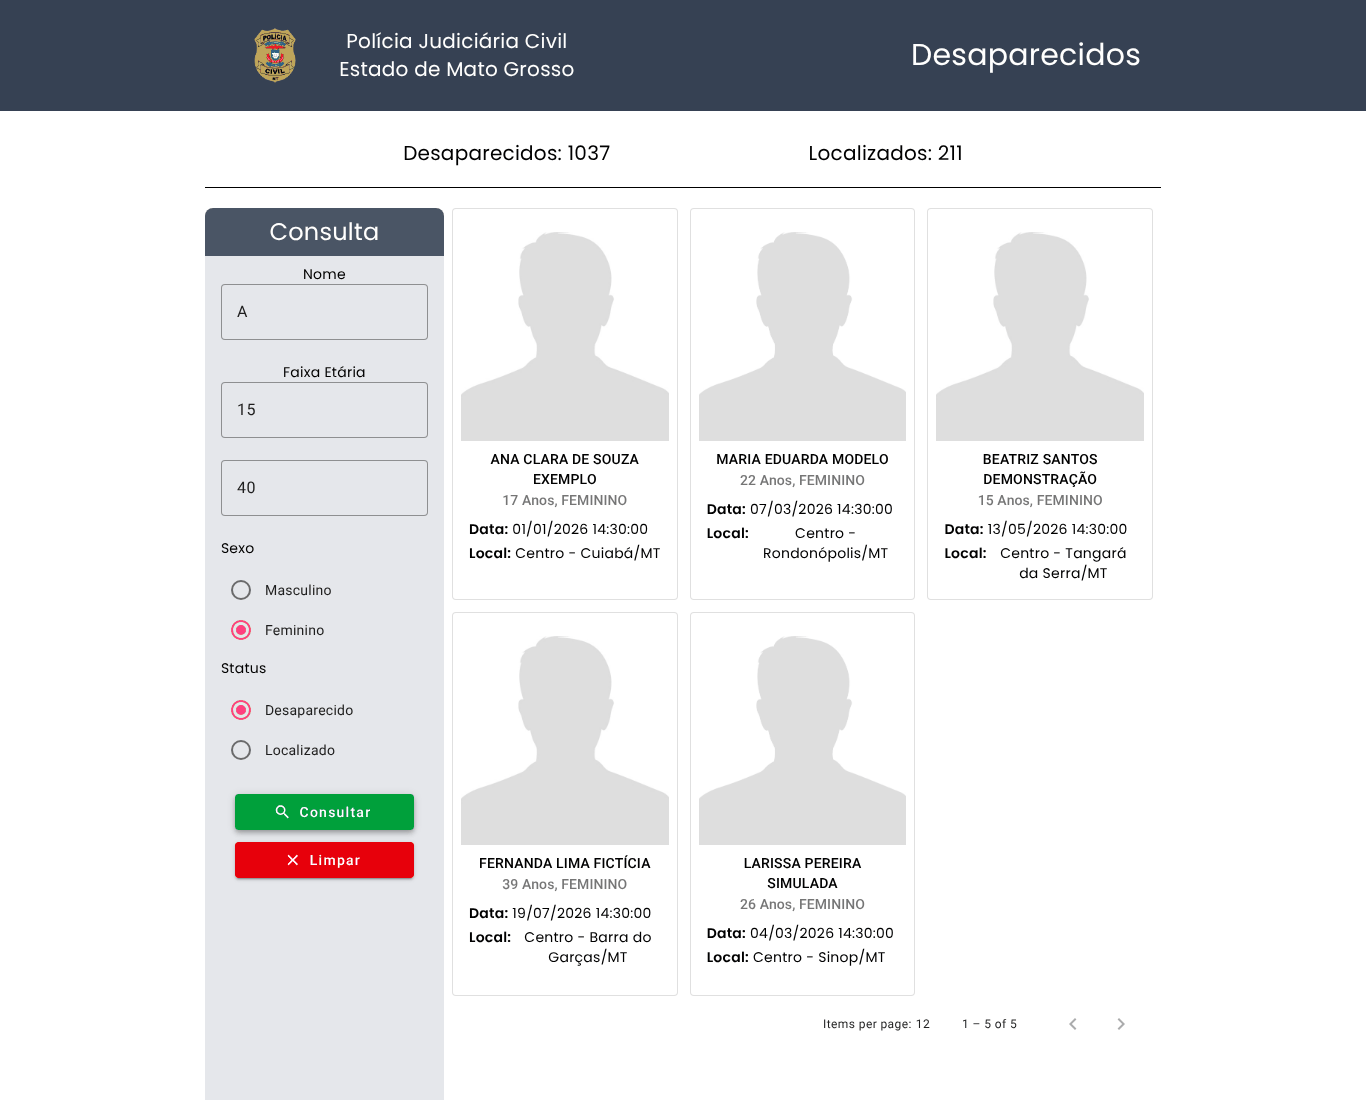
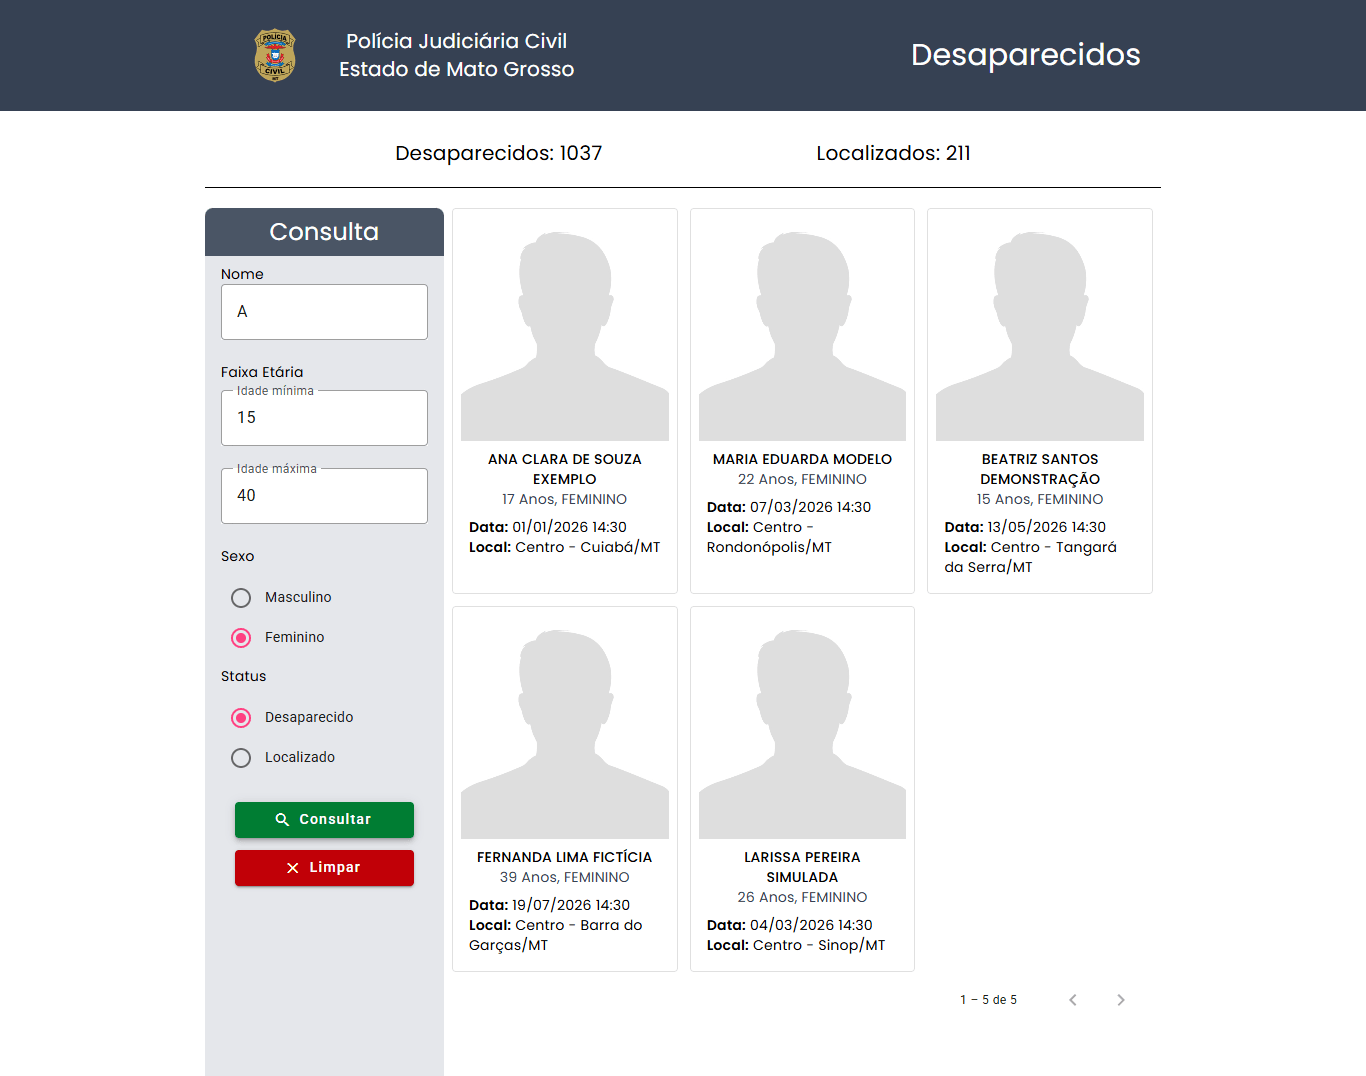
docs(capturas): refaz as capturas sobre a UI revisada e atualiza o README
As capturas agora mostram o layout corrigido no celular, o paginador em
português, o botão "Voltar para a lista" e o formulário revisado. O
README ganha a acessibilidade e o nginx entre as funcionalidades e
decisões, corrige o número de colunas no celular e explica como usar um
navegador instalado e reduzir as imagens.

diff --git a/README.md b/README.md
@@ -31,7 +31,8 @@ Projeto desenvolvido como teste prático do **Processo Seletivo SEPLAG/MT** — 
 - Filtros por nome, faixa etária, sexo e status (desaparecido/localizado).
 - Tela de detalhe com situação do caso, local e data do desaparecimento e há quantos dias a pessoa está desaparecida.
 - Se a API falhar, a lista e a tela de detalhe mostram uma mensagem amigável com o botão "Tentar de novo".
-- Formulário em diálogo para enviar informações sobre a pessoa, com máscara de data e upload de imagens.
+- Formulário em diálogo para enviar informações sobre a pessoa, com máscara de data e upload de imagens. A data é validada de verdade (recusa 31/02 e datas futuras) e as imagens precisam ser PNG/JPG de até 3 MB.
+- Acessível (WCAG 2.1 AA): tudo funciona pelo teclado, link "Pular para o conteúdo", foco levado ao conteúdo quando a rota muda, título da aba por página, resultado da busca anunciado para leitores de tela e contraste de 4,5:1. O axe-core não aponta violações e o Lighthouse dá 100 em acessibilidade.
 - Renderização no servidor (Angular SSR) com pré-renderização das rotas; os dados da API são sempre buscados no navegador, então o HTML gerado no build não guarda um retrato desatualizado da lista.
 
 ## Requisitos do teste e onde estão atendidos
@@ -45,7 +46,7 @@ Projeto desenvolvido como teste prático do **Processo Seletivo SEPLAG/MT** — 
 | Detalhe com destaque da situação                   | Faixa e borda vermelhas (desaparecido) ou verdes (localizado), dados da ocorrência e dias desde o desaparecimento                                  |
 | Envio de informações sobre a pessoa                | Diálogo com informação, data com máscara (`ngx-mask`) e várias imagens com pré-visualização, enviado como `multipart/form-data`                    |
 | Rotas com carregamento sob demanda (lazy loading) | `loadComponent` nas rotas `/` e `/detalhe` (`app.routes.ts`)                                                                                       |
-| Layout responsivo                                 | Tailwind: filtros acima da lista e 2 colunas de cards no celular; filtros na lateral e 3 colunas no desktop                                        |
+| Layout responsivo                                 | Tailwind: no celular, filtros acima da lista e 1 coluna de cards (2 a partir de 640 px); no desktop, filtros na lateral e 3 colunas                                    |
 | Tratamento de erros                               | Mensagem amigável com "Tentar de novo" na lista e no detalhe; alerta (snackbar) no envio de informações                                            |
 | Testes unitários                                  | 90 testes em 9 arquivos (Vitest), cobertura de linhas de ~99%, rodando na CI a cada push e PR                                                                                   |
 | Empacotamento em contêiner                        | `Dockerfile` multi-stage (build com Node, servido por nginx)                                                                                       |
@@ -86,6 +87,8 @@ Isso mantém os componentes simples, concentra regras de negócio em um único p
 - **Filtros opcionais fora da query string quando vazios:** `sexo` e `status` só são enviados quando escolhidos, para não mandar `undefined`/`null` como texto para a API.
 - **Erro com nova tentativa no lugar da tela:** se a lista ou o detalhe falham, a área de conteúdo mostra a mensagem e o botão "Tentar de novo", que repete a mesma consulta (mesma página e filtros).
 - **Vitest + jsdom em vez de Karma:** os testes rodam sem abrir navegador, mais rápido na máquina e na CI, com o builder oficial `@angular/build:unit-test`.
+- **Cards com um botão de verdade dentro:** o card inteiro continua clicável, mas o nome da pessoa é um `<button>`, para o card abrir pelo teclado e ser anunciado corretamente por leitores de tela.
+- **nginx com cabeçalhos de segurança e cache por tipo de arquivo:** CSP, `X-Frame-Options` e `nosniff`; JS/CSS com hash ficam em cache por 1 ano e o HTML nunca fica em cache, então um deploy novo chega na hora.
 - **Demo estática no GitHub Pages:** a configuração `pages` gera só os arquivos do navegador em `docs/`, sem precisar de servidor Node.
 
 ## Estrutura de pastas
@@ -179,7 +182,14 @@ npm start   # em outro terminal
 node scripts/capturas-de-tela.mjs http://localhost:4200/ screenshots
 ```
 
-Os PNGs versionados foram reduzidos para paleta de 256 cores (cerca de metade do tamanho) depois de gerados.
+Para usar o Edge ou o Chrome já instalados em vez de baixar o Chromium, defina `PW_CHANNEL=msedge` (ou `chrome`) antes do último comando.
+
+Os PNGs versionados foram reduzidos para paleta de 256 cores (menos da metade do tamanho) depois de gerados:
+
+```sh
+npm i --no-save sharp
+node -e "const s=require('sharp'),fs=require('fs');for(const f of fs.readdirSync('screenshots')){const p='screenshots/'+f;s(p).png({palette:true,colors:256,compressionLevel:9}).toBuffer().then(b=>fs.writeFileSync(p,b))}"
+```
 
 ### Qualidade e CI
 
